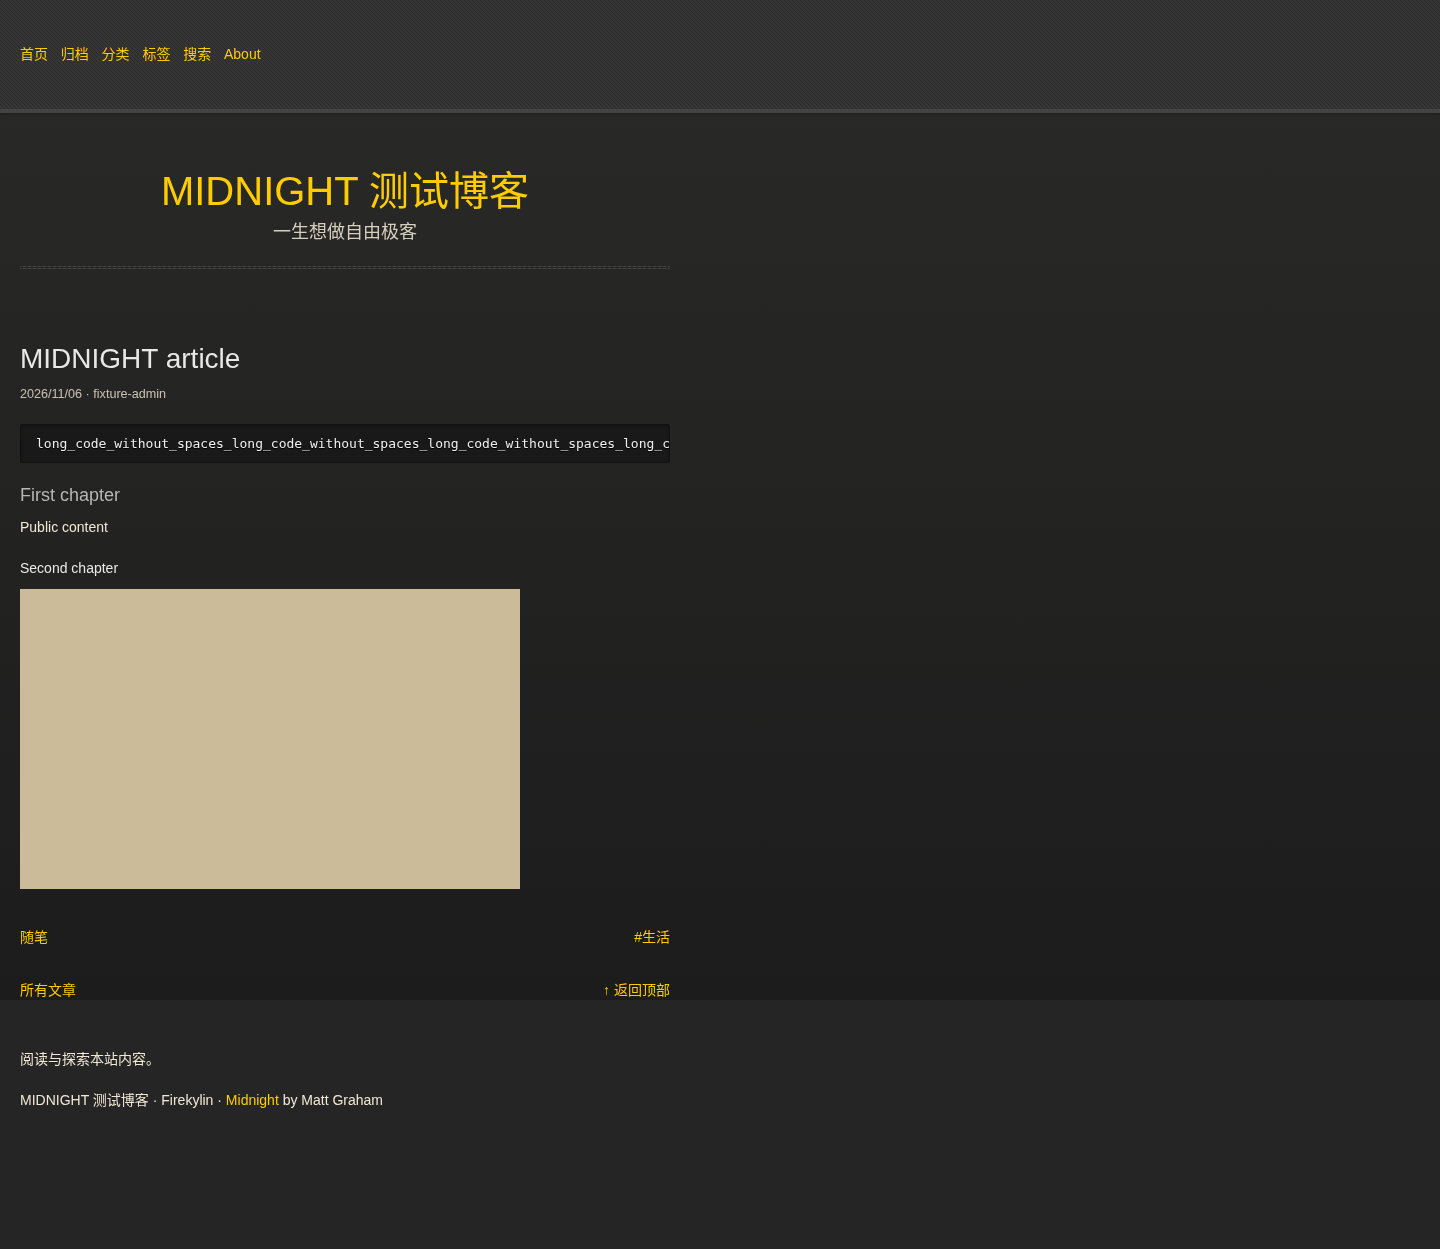
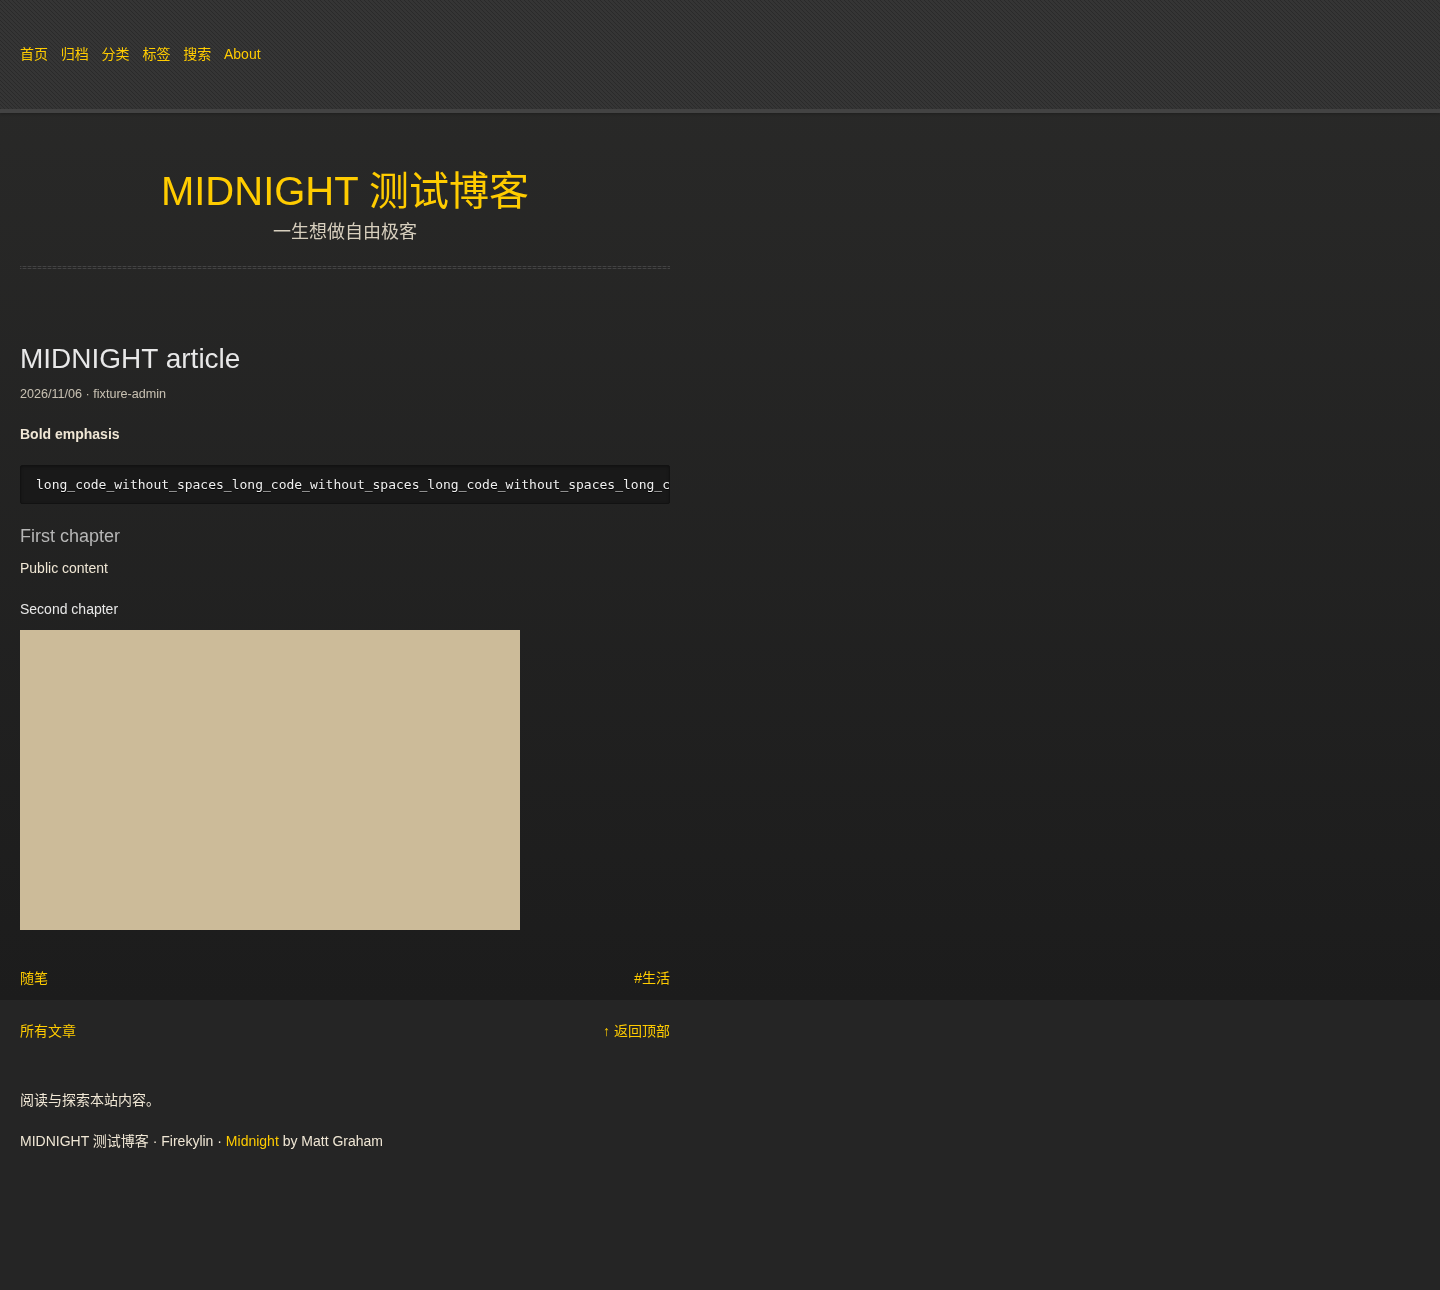
fix: preserve Midnight bold emphasis with fallback fonts

diff --git a/packages/midnight/res/css/theme.css b/packages/midnight/res/css/theme.css
@@ -841,3 +841,4 @@ section #title .credits.right {
 .prose pre{max-width:100%;overflow-x:auto}.attachment-media img,.attachment-media audio,.attachment-media video{max-width:100%}
 
 .nav-items,.pagination{position:static!important;inset:auto!important;margin:1.5rem 0!important;transform:none!important;max-width:100%;width:auto!important}#banner{right:auto;margin-left:0;transform:none}.site-footer{inset:auto;margin-left:0}html{background:#252525}body{height:auto;min-height:100vh}#header .nav-items{background:transparent;padding:10px 0}
+strong,b{font-weight:700!important}em,i{font-style:italic}
